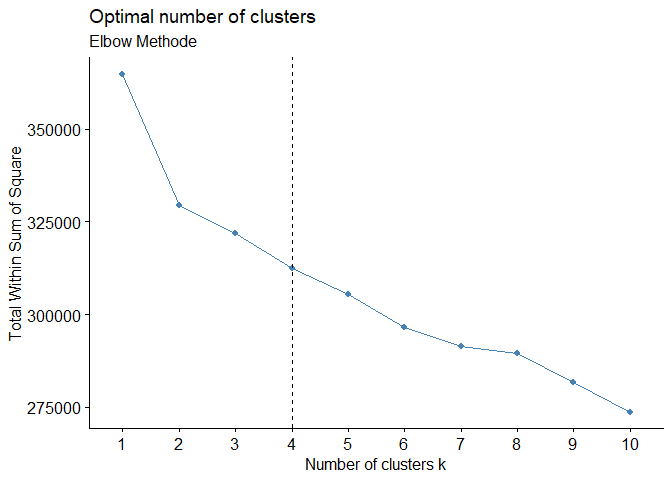
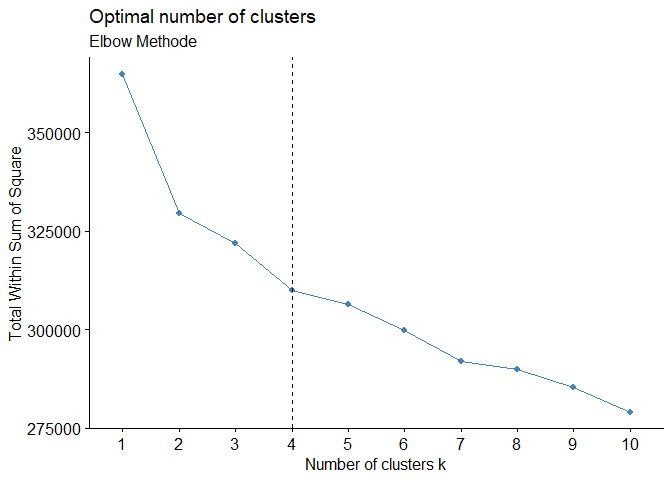
Clustering V1

diff --git a/Clustering.md b/Clustering.md
@@ -1,4 +1,4 @@
-Unsupervised Learning
+Unsupervised Learning - Clustering und Dimensionsreduktion
 ================
 
 Librarys laden
@@ -158,7 +158,7 @@ remove(df.scaled.filter)
 df1 <- filter(df, class == 1)
 df0 <- filter(df, class == 0)
 
-ss2 <- sample(1:59000, 3000)
+set.seed(123345); ss2 <- sample(1:59000, 3000)
 
 df1_new <- df1[ss2, ]
 
@@ -242,8 +242,8 @@ table(df_new_original$class, km.res$cluster)
 
     ##    
     ##        1    2    3    4
-    ##   0  189  400  391   20
-    ##   1   18   35 2947    0
+    ##   0  278  171  391  160
+    ##   1   31   14 2948    7
 
 Fuzzy C-Means
 =============
@@ -282,8 +282,8 @@ table(df_new_original$class, res.fcm2$cluster)
 
     ##    
     ##        1    2    3    4
-    ##   0   66  258  481  195
-    ##   1 1868   30   40 1062
+    ##   0   61  264  471  204
+    ##   1 1895   32   39 1034
 
 TSNE
 ====
@@ -301,25 +301,25 @@ set.seed(5555)
 tsne <- Rtsne(df_new2, dims = 2, perplexity=20, verbose=TRUE, max_iter = 500)
 ```
 
-    ## Read the 3955 x 50 data matrix successfully!
+    ## Read the 3954 x 50 data matrix successfully!
     ## Using no_dims = 2, perplexity = 20.000000, and theta = 0.500000
     ## Computing input similarities...
     ## Normalizing input...
     ## Building tree...
-    ##  - point 0 of 3955
-    ## Done in 1.24 seconds (sparsity = 0.023666)!
+    ##  - point 0 of 3954
+    ## Done in 1.03 seconds (sparsity = 0.023599)!
     ## Learning embedding...
-    ## Iteration 50: error is 89.179167 (50 iterations in 2.04 seconds)
-    ## Iteration 100: error is 76.059193 (50 iterations in 2.00 seconds)
-    ## Iteration 150: error is 74.531731 (50 iterations in 1.83 seconds)
-    ## Iteration 200: error is 74.054930 (50 iterations in 1.83 seconds)
-    ## Iteration 250: error is 73.829417 (50 iterations in 1.83 seconds)
-    ## Iteration 300: error is 2.165094 (50 iterations in 1.69 seconds)
-    ## Iteration 350: error is 1.732780 (50 iterations in 1.67 seconds)
-    ## Iteration 400: error is 1.516376 (50 iterations in 1.69 seconds)
-    ## Iteration 450: error is 1.387253 (50 iterations in 1.63 seconds)
-    ## Iteration 500: error is 1.307946 (50 iterations in 1.71 seconds)
-    ## Fitting performed in 17.90 seconds.
+    ## Iteration 50: error is 89.348580 (50 iterations in 2.68 seconds)
+    ## Iteration 100: error is 75.823100 (50 iterations in 1.68 seconds)
+    ## Iteration 150: error is 74.001333 (50 iterations in 1.69 seconds)
+    ## Iteration 200: error is 73.437240 (50 iterations in 1.75 seconds)
+    ## Iteration 250: error is 73.158037 (50 iterations in 1.74 seconds)
+    ## Iteration 300: error is 2.146049 (50 iterations in 1.64 seconds)
+    ## Iteration 350: error is 1.715775 (50 iterations in 1.65 seconds)
+    ## Iteration 400: error is 1.497784 (50 iterations in 1.70 seconds)
+    ## Iteration 450: error is 1.373928 (50 iterations in 1.67 seconds)
+    ## Iteration 500: error is 1.297615 (50 iterations in 1.68 seconds)
+    ## Fitting performed in 17.88 seconds.
 
 ``` r
 #Modelling
@@ -343,15 +343,6 @@ ggplot(d_tsne_1, aes(x=V1, y=V2)) +
 
 ``` r
 #Visualisieren
-
-#Optimale Menge an Cluster
-fviz_nbclust(scale(d_tsne_1), kmeans, method = "wss") +
-  geom_vline(xintercept = 7, linetype = 2)
-```
-
-![](Clustering_files/figure-markdown_github/unnamed-chunk-6-2.png)
-
-``` r
 #--------------------
 ```
 
@@ -408,8 +399,8 @@ table(df_new_original2$class, fit_cluster_cmeans2$cluster)
 
     ##    
     ##       1   2   3   4   5   6   7
-    ##   0  88  15 419   6 363   5  72
-    ##   1 443 615  70 597 278 628 356
+    ##   0  34 388 483   2   7  10  44
+    ##   1 550  85 130 601 565 603 452
 
 ``` r
 table(df_new_original2$class, fit_cluster_kmeans$cluster)
@@ -417,14 +408,14 @@ table(df_new_original2$class, fit_cluster_kmeans$cluster)
 
     ##    
     ##       1   2   3   4   5   6   7
-    ##   0  35  12  92 374 444   7   4
-    ##   1 293 614 492 277  84 673 554
+    ##   0   1 349 513  26   4  60  15
+    ##   1 631 210 104 808 257 546 430
 
 ``` r
 table(df_new_original2$class, d_tsne_1_original$cl_hierarchical)
 ```
 
     ##    
-    ##       1   2   3   4   5   6   7
-    ##   0 579   6 143 206   7   8  19
-    ##   1 173 658 292 261 434 323 846
+    ##        1    2    3    4    5    6    7
+    ##   0   76    4   28    3  455  286  116
+    ##   1  579  670 1244  162  121   51  159
